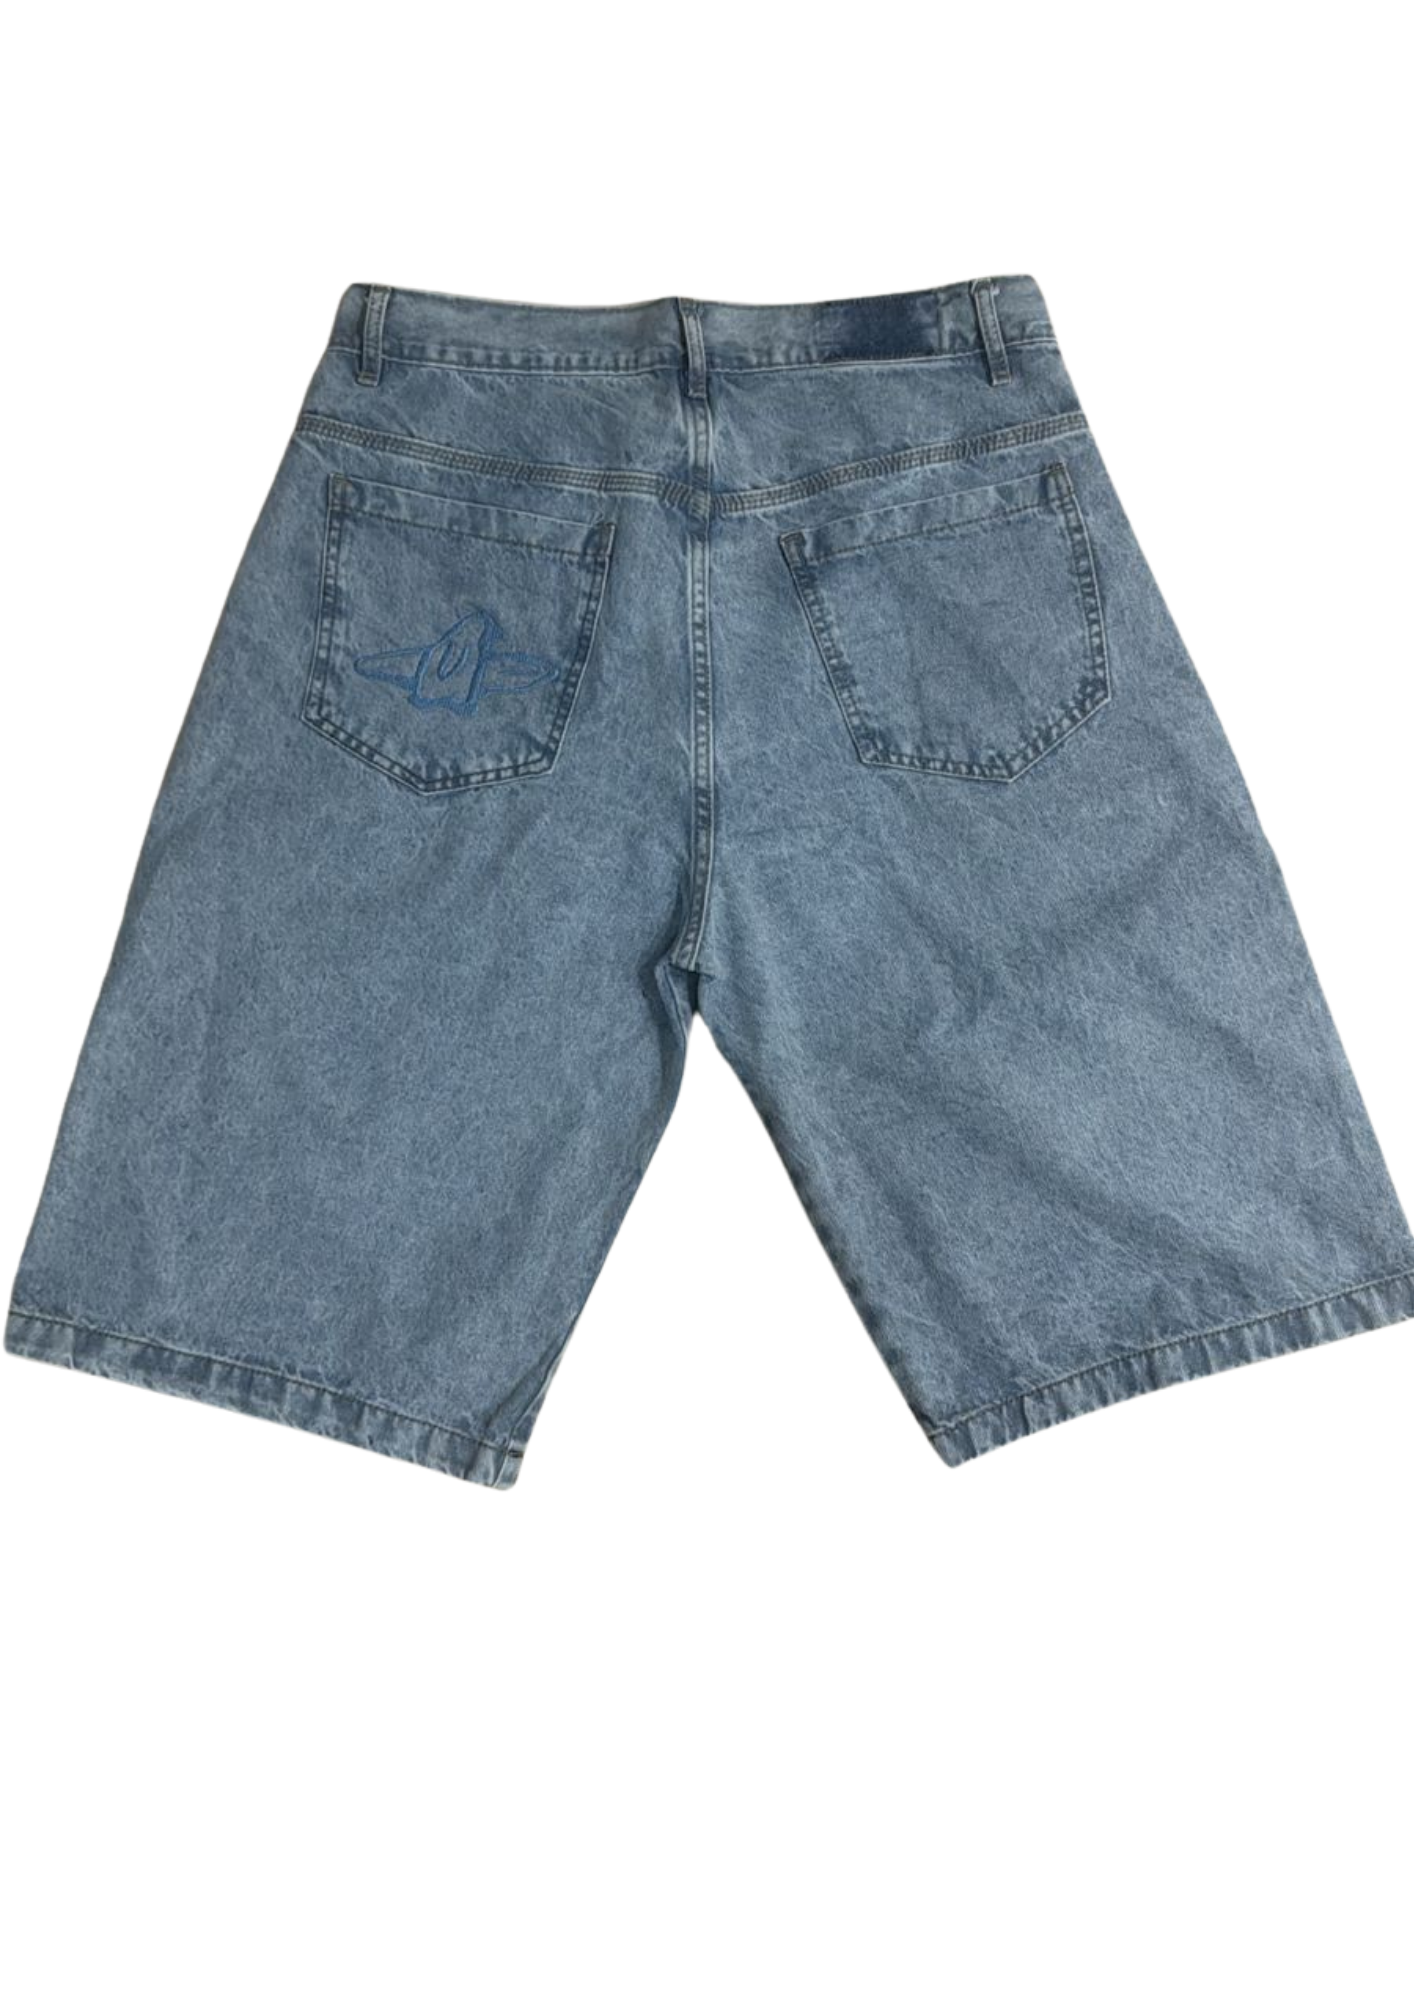
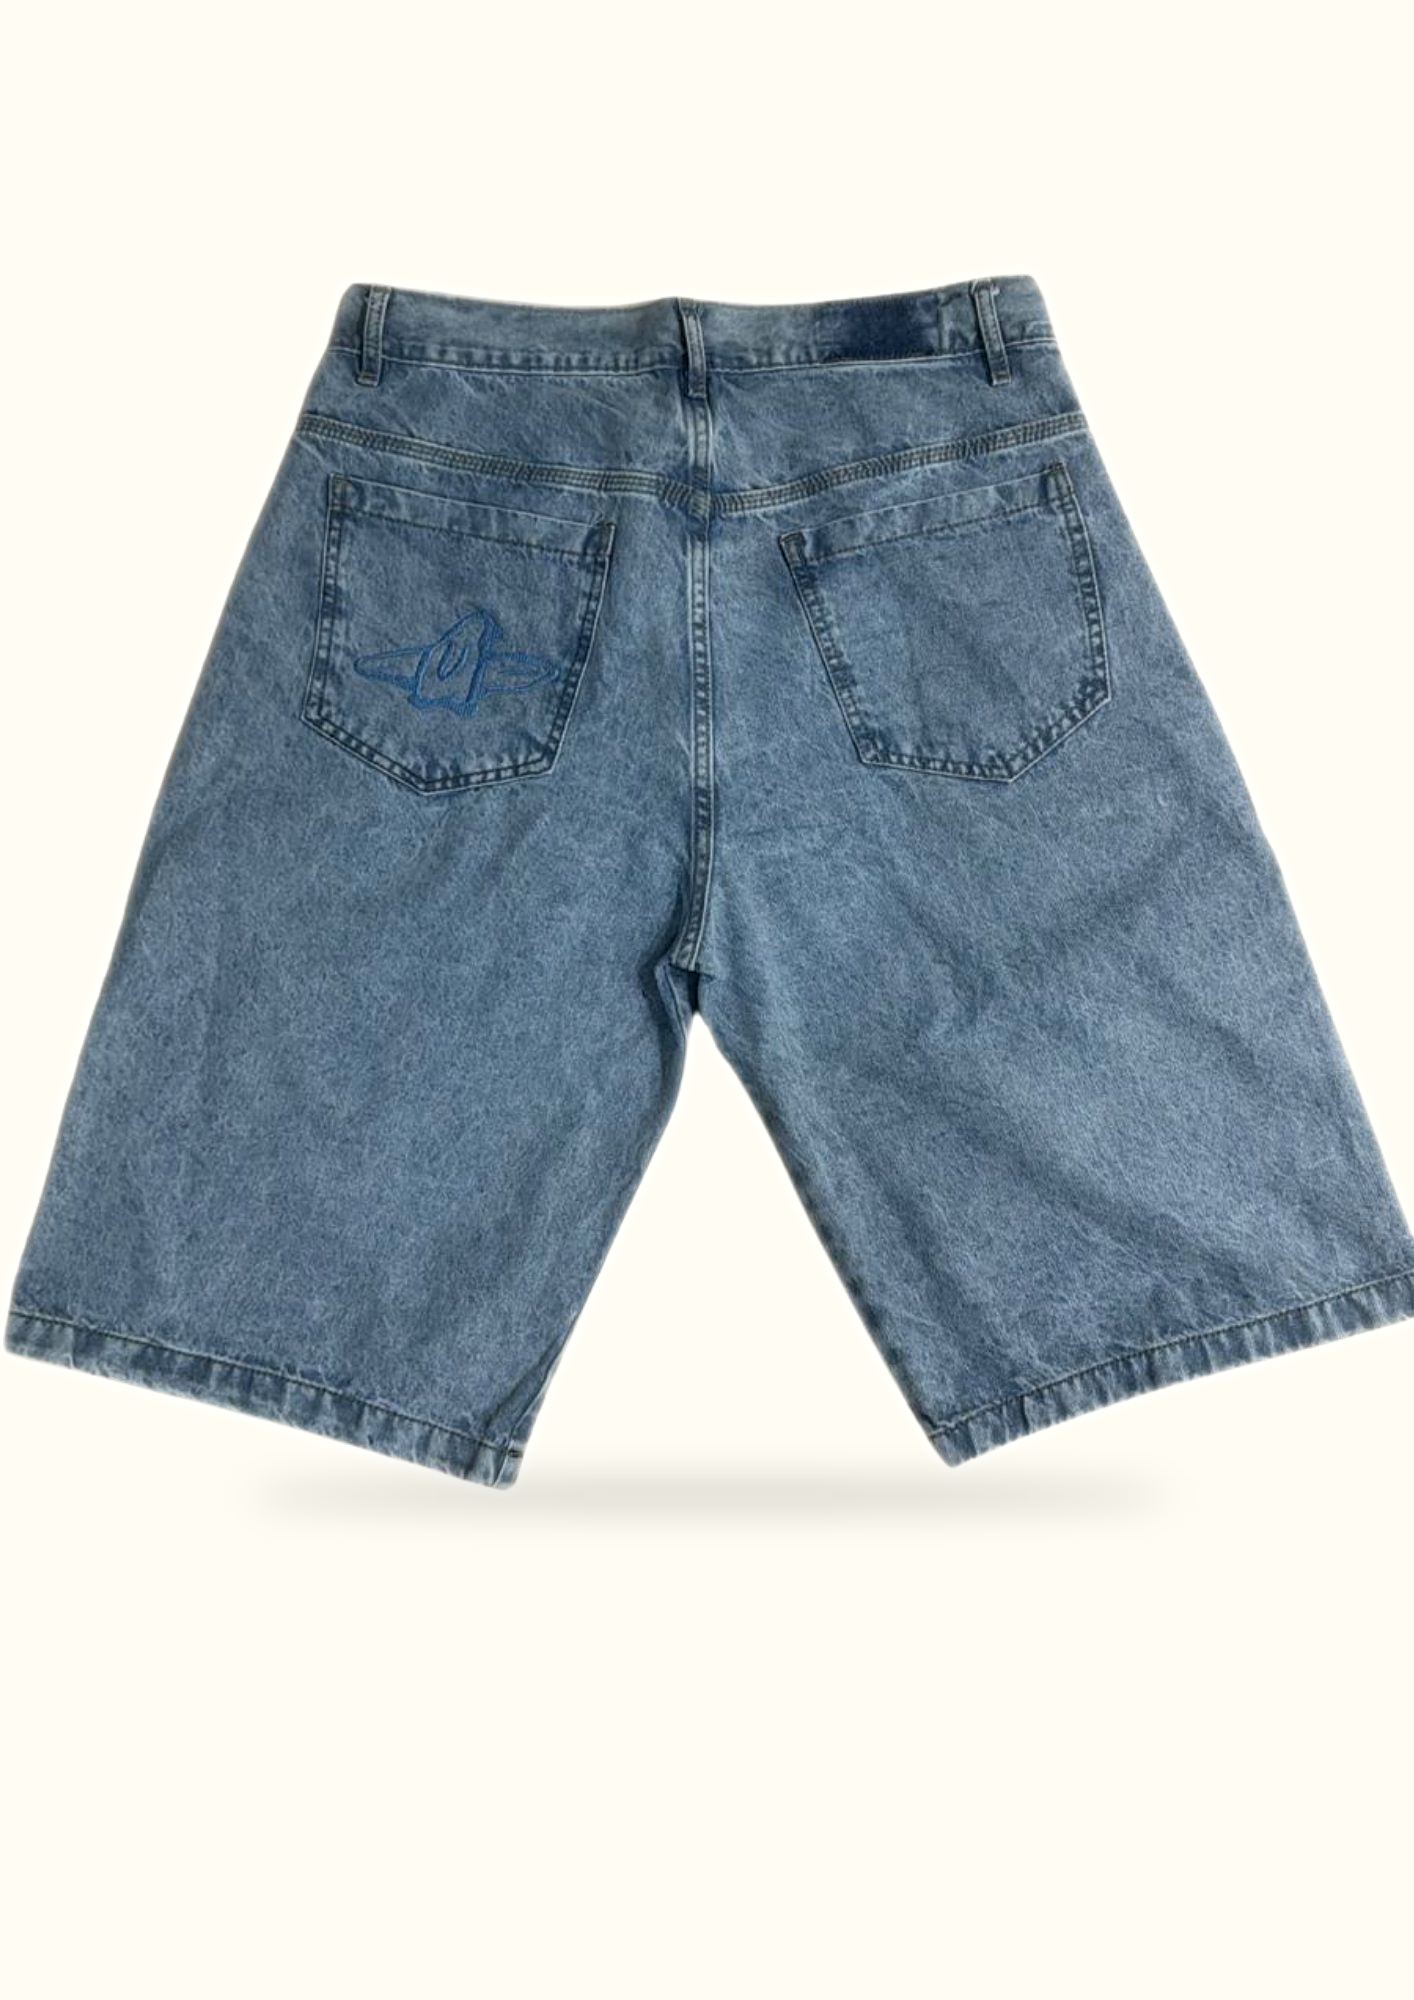
fix: update all product photos and fix image extensions back to .png
- All 12 product images updated with new aesthetic shots
- Fix products.ts to use .png extensions matching actual files

diff --git a/src/data/products.ts b/src/data/products.ts
@@ -27,8 +27,8 @@ export const products: Product[] = [
       "Chomba oversize de algodón peinado con rayas anchas en crudo y gris oscuro. Bordado 'kloths.' en el pecho. Cuello con botones. Fit relajado.",
     sizes: ["S", "M", "L", "XL"],
     images: [
-      "/images/products/chomba-rayada-frente.jpg",
-      "/images/products/chomba-rayada-espalda.jpg",
+      "/images/products/chomba-rayada-frente.png",
+      "/images/products/chomba-rayada-espalda.png",
     ],
   },
   {
@@ -43,8 +43,8 @@ export const products: Product[] = [
       "Bermuda baggy de gabardina negra. Bordado 'kloths.' en la pierna y surfer line art en el bolsillo trasero. Fit amplio, costuras reforzadas.",
     sizes: ["38", "40", "42", "44"],
     images: [
-      "/images/products/bermuda-negra-frente.jpg",
-      "/images/products/bermuda-negra-espalda.jpg",
+      "/images/products/bermuda-negra-frente.png",
+      "/images/products/bermuda-negra-espalda.png",
     ],
   },
   {
@@ -59,8 +59,8 @@ export const products: Product[] = [
       "Bermuda baggy de denim lavado celeste. Alto gramaje, caída pesada. Logo bordado en el bolsillo trasero. Fit amplio y auténtico.",
     sizes: ["38", "40", "42", "44"],
     images: [
-      "/images/products/bermuda-jean-frente.jpg",
-      "/images/products/bermuda-jean-espalda.jpg",
+      "/images/products/bermuda-jean-frente.png",
+      "/images/products/bermuda-jean-espalda.png",
     ],
   },
   {
